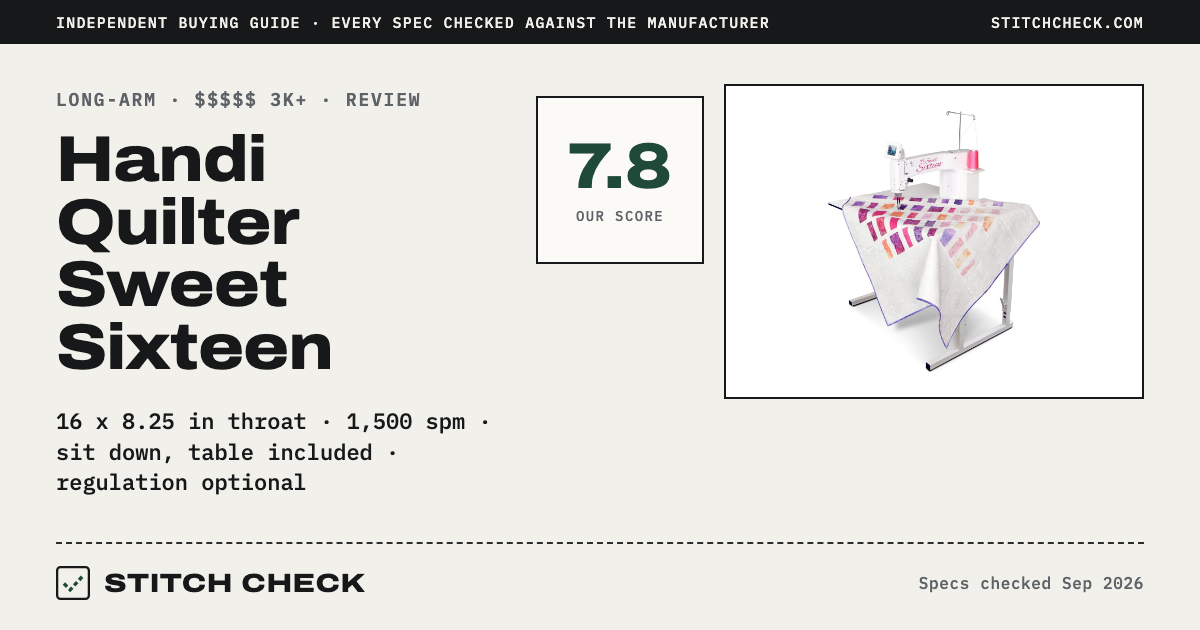
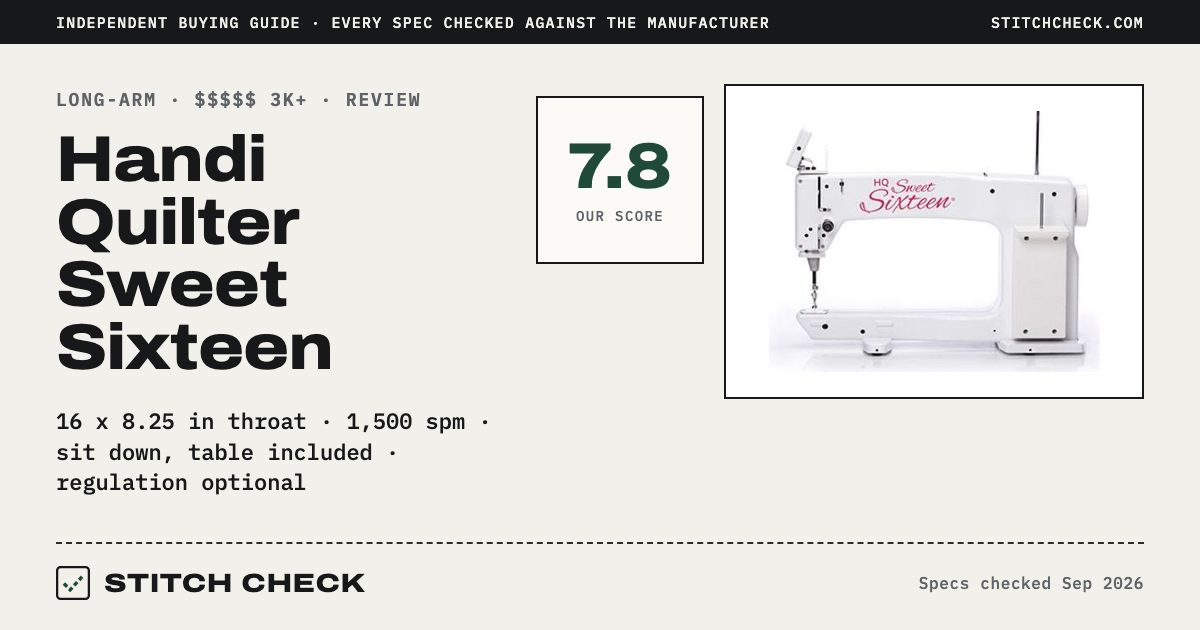
Sharper Bernina 1008 photo; rule-compliant Sweet Sixteen shot
Bernina 1008 moves from the 586 px page header to the 1920 px Classic
Series photo on bernina.com. Sweet Sixteen moves to the machine-only
500 px shot; the row note records the sharper lifestyle photo in case
the no-fabric rule is relaxed. The fit now sizes the canvas from the
limiting side so a tall source is not shrunk. Open Graph cards
re-rendered for both.

Changed region(s): [[0.6475, 0.2111, 0.925, 0.6032]]

diff --git a/scripts/fetch-images.ts b/scripts/fetch-images.ts
@@ -145,8 +145,8 @@ export function candidates(html: string, pageUrl: string, model: string): { url:
 /**
  * Trim the maker's white margins, then fit the machine on a white 4:3 canvas
  * with an 8 percent margin. Canvas is 1600x1200 when the source is big enough,
- * otherwise 4:3 at the source's width (never below 800) so small renditions are
- * not upscaled into mush.
+ * otherwise 4:3 at the size the trimmed source fills (never below 800) so small
+ * renditions are not upscaled into mush.
  */
 export async function fitToCanvas(input: Buffer | string, file: string) {
   const base = sharp(input).rotate().flatten({ background: "#ffffff" });
@@ -160,8 +160,11 @@ export async function fitToCanvas(input: Buffer | string, file: string) {
   const tw = tm.width ?? 0;
   const th = tm.height ?? 0;
   if (tw < 40 || th < 40) trimmed = await base.clone().toBuffer(); // trim ate the picture: not a white-background shot
-  const srcW = (await sharp(trimmed).metadata()).width ?? 800;
-  const canvasW = Math.min(1600, Math.max(800, Math.round(srcW / 0.84)));
+  const sm = await sharp(trimmed).metadata();
+  const srcW = sm.width ?? 800;
+  const srcH = sm.height ?? 600;
+  // Size the canvas from whichever side limits the fit, so a tall source is not shrunk and --refit keeps its size.
+  const canvasW = Math.min(1600, Math.max(800, Math.round(Math.max(srcW, (srcH * 4) / 3) / 0.84)));
   const canvasH = Math.round((canvasW * 3) / 4);
   const inner = await sharp(trimmed)
     .resize(Math.round(canvasW * 0.84), Math.round(canvasH * 0.84), { fit: "inside", withoutEnlargement: false })
